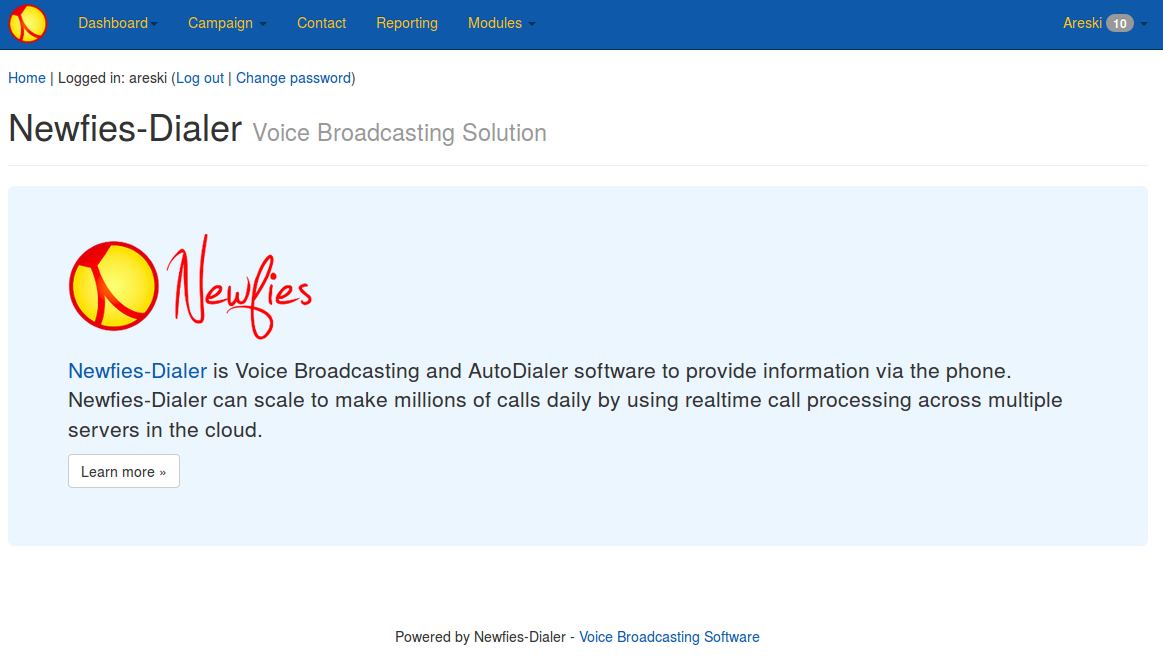
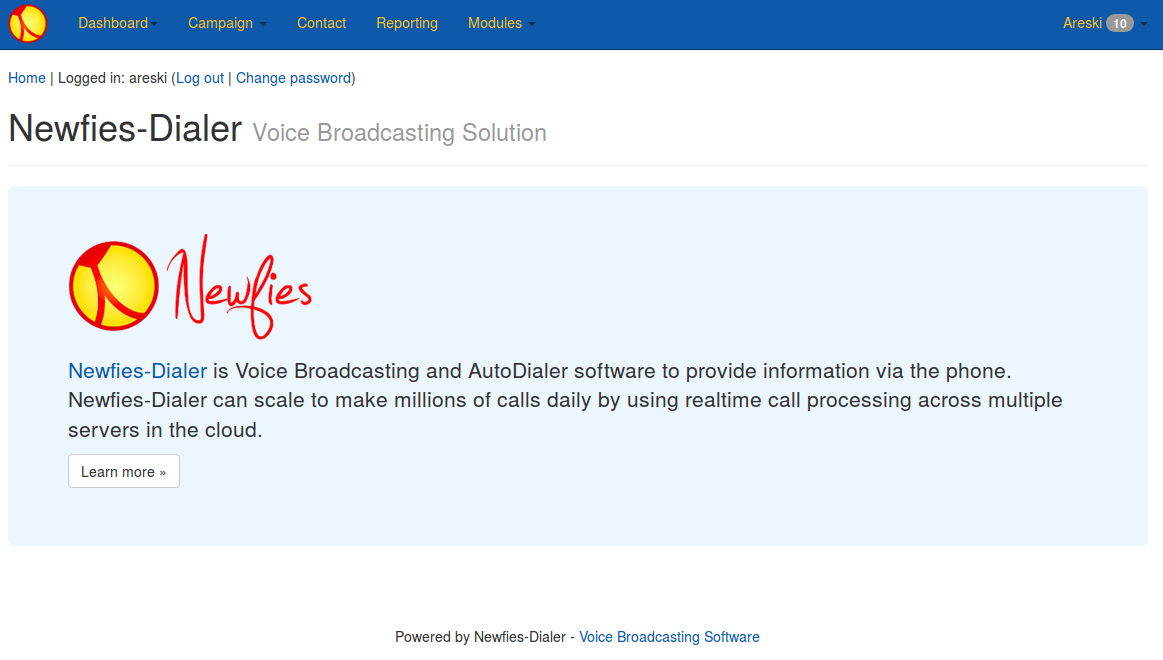
update screenshot

diff --git a/user-guide/customer-panel.html b/user-guide/customer-panel.html
@@ -75,7 +75,7 @@ reporting of calls and message delivery.</p>
 <div class="section" id="login-page">
 <span id="id2"></span><h2><a class="toc-backref" href="#id9">Login Page</a><a class="headerlink" href="#login-page" title="Permalink to this headline">¶</a></h2>
 <p>Index page for the customer interface after successful login with user credentials</p>
-<a class="reference internal image-reference" href="../_images/newfies-dialer-dashboard.png"><img alt="../_images/newfies-dialer-dashboard.png" src="../_images/newfies-dialer-dashboard.png" style="width: 750px;" /></a>
+<a class="reference internal image-reference" href="../_images/customer_screenshot.png"><img alt="../_images/customer_screenshot.png" src="../_images/customer_screenshot.png" style="width: 750px;" /></a>
 </div>
 <div class="section" id="dashboards">
 <span id="id3"></span><h2><a class="toc-backref" href="#id10">Dashboards</a><a class="headerlink" href="#dashboards" title="Permalink to this headline">¶</a></h2>

diff --git a/introduction.html b/introduction.html
@@ -71,7 +71,7 @@
 <p>Newfies-Dialer is an SMS and voice broadcasting system built to support
 cloud based servers and can also work on standalone servers.
 It uses <a class="reference external" href="http://www.freeswitch.org/">Freeswitch</a> (VoIP Server) to make calls.</p>
-<a class="reference internal image-reference" href="./_static/images/customer/customer_dashboard.png"><img alt="./_static/images/customer/customer_dashboard.png" src="./_static/images/customer/customer_dashboard.png" style="width: 800px;" /></a>
+<a class="reference internal image-reference" href="_images/newfies-dialer-dashboard.png"><img alt="_images/newfies-dialer-dashboard.png" src="_images/newfies-dialer-dashboard.png" style="width: 800px;" /></a>
 <p>Using very simple steps, Newfies-Dialer will help you create campaigns, add
 phonebooks, contacts, build audio messages and create complex telephony
 applications for voice broadcasting.</p>
